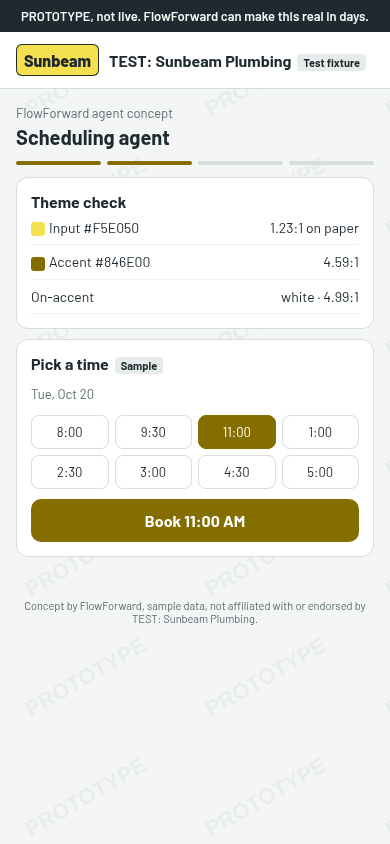
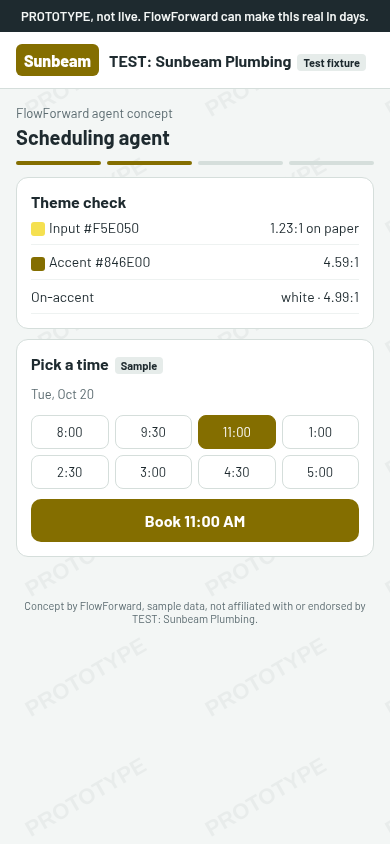
Design: QA fixes: fictional vendors, flag gates all prototype routes (OFF in prod), no-ROI rule, 555-01xx, HVAC fixture, accent wordmark plate

Changed region(s): [[0.0308, 0.0308, 0.2769, 0.0924]]

diff --git a/docs/design/prototype-system.md b/docs/design/prototype-system.md
@@ -55,7 +55,8 @@ The surfaces are always light, so in practice this darkens. Hue is preserved, so
 - **Allowed logo sources in v1:** checked-in fixtures, or an image Kelby enters manually (uploaded or committed as an asset). **No fetching from a prospect's website.** That waits for #30 plus a Warden review.
 - **No server-side remote fetch, ever.** Logo luminance sampling (for the plate decision) must never fetch a remote URL on the server, because that's an SSRF risk. Sample only local fixture or uploaded bytes, or precompute at fixture-authoring time and store `logoPlate: "light" | "dark" | "none"` with the fixture.
 - **Sizing:** max height 32px (mobile) / 40px (desktop), max width 160px, `object-fit: contain`. If the image fails to load, fall back to the name wordmark.
-- **Plate:** if the logo's contrast against the white header is < 3:1, put it on a slate plate (for a light logo) or a paper plate with a 1px slate inset border. Plate padding is 4px 8px, radius 6px.
+- **Wordmark plate:** the name wordmark always sits on the corrected `accent` with `onAccent` text, never on the raw brand color (e.g. yellow #F5E050 renders as #846E00 with white text).
+- **Logo plate:** if the logo's contrast against the white header is < 3:1, put it on a slate plate (for a light logo) or a paper plate with a 1px slate inset border. Plate padding is 4px 8px, radius 6px.
 
 ## 3. Layout
 
@@ -71,12 +72,14 @@ Mobile-first at **390px**, desktop at **1280px**. On desktop the flow sits in a 
 
 ## 4. Watermark (non-removable)
 
-Rendered by `PrototypeWatermark` from the prototype shell, **outside theme/brand props**. Nothing gates it: `FF_PROTOTYPE_GALLERY` gates only the gallery, never the watermark.
+Rendered by `PrototypeWatermark` from the prototype shell, **outside theme/brand props**. **Flag (per #40):** `FF_PROTOTYPE_GALLERY` gates **all** prototype routes and generators and defaults to **OFF in production**. It never affects the watermark: whenever a prototype renders, the watermark renders. No flag, theme or query param can turn it off.
 
 - **Ribbon:** exactly "PROTOTYPE, not live. FlowForward can make this real in days." (Summit-required wording; do not paraphrase). `position: sticky; top: 0`, min-height 32px and grows to fit up to two lines at 390px (padding 6px 12px, centered, line-height 1.3), Barlow 600 at 13–14px, slate #1E2A2F background, paper #F3F6F5 text (never brand colors), `role="note"`, no close button.
 - **Tiled pattern:** diagonal (−30°) "PROTOTYPE" SVG tile behind content at ~5% opacity (range 4–6%), `pointer-events: none`.
-- **Fixture naming:** fixture business names use a `TEST:` prefix (e.g. `TEST: Cedar Lane HVAC`). Real prospect names and logos never go into fixtures.
-- **Sample tags:** every fake datum (customer, amount, phone, business) carries a "Sample" tag or a "(sample)" suffix. Phone numbers use the 555-01xx range.
+- **No ROI or close-rate promises** (from #40), anywhere: copy, demo, or proposal. No invented ROI, revenue-recovered, or savings figures in prototypes. Use conditional wording only ("could", "shops like yours often").
+- **No real names:** vendors, brands, companies and people in mockups and fixtures are fictional (e.g. "Sample Pipe Supply", "Sample Fuel Stop"). Every ledger row, call record, message and booked job carries a Sample tag.
+- **Fixture naming:** fixture business names use a `TEST:` prefix (e.g. `TEST: Cedar Lane HVAC`). Fixtures prefer HVAC (primary) and plumbing (secondary), per #40's target. Real prospect names and logos never go into fixtures.
+- **Sample tags:** every fake datum (customer, amount, phone, business) carries a "Sample" tag or a "(sample)" suffix. Phone numbers use the 555-01xx range, e.g. (801) 555-0142.
 - **Footer:** "Concept by FlowForward, sample data, not affiliated with or endorsed by <Business>."
 - **No real actions:** every acting button shows a toast, "In the live version this would …". No network sends.
 - **Injection-safe:** `businessName` and all brand strings are rendered as escaped text, never as HTML. A business name containing markup must not be able to remove or hide the watermark.
@@ -100,7 +103,9 @@ One primary button, **"Talk to Kelby"**, which is a plain link (`<a href>`, e.g.
 - [ ] Logo max height, plate logic, and load-failure fallback.
 - [ ] **Required test:** a business name containing `<style>.ribbon{display:none}</style>` or `</div><script>` is escaped (appears as literal text), and the ribbon, tile and footer remain present and visible.
 - [ ] Estimate follow-up demo is email-only (3–4 touches, stops on reply, call shown only as an owner reminder).
-- [ ] Fixture names use the `TEST:` prefix.
+- [ ] Fixture names use the `TEST:` prefix; no real vendor, brand, company or person names; Sample tags on all fake data rows.
+- [ ] No ROI, revenue-recovered, savings or close-rate claims anywhere in prototype copy.
+- [ ] `FF_PROTOTYPE_GALLERY` gates all prototype routes and generators, defaults OFF in prod; the watermark renders regardless of flag state whenever a prototype renders.
 - [ ] Watermark ribbon + tile + footer present; tests cover hostile colors, `?watermark=0`, flags, and theme overrides.
 - [ ] Ribbon has `role="note"` and no close control.
 - [ ] Every action button shows a toast; no outbound requests (asserted in the test).
